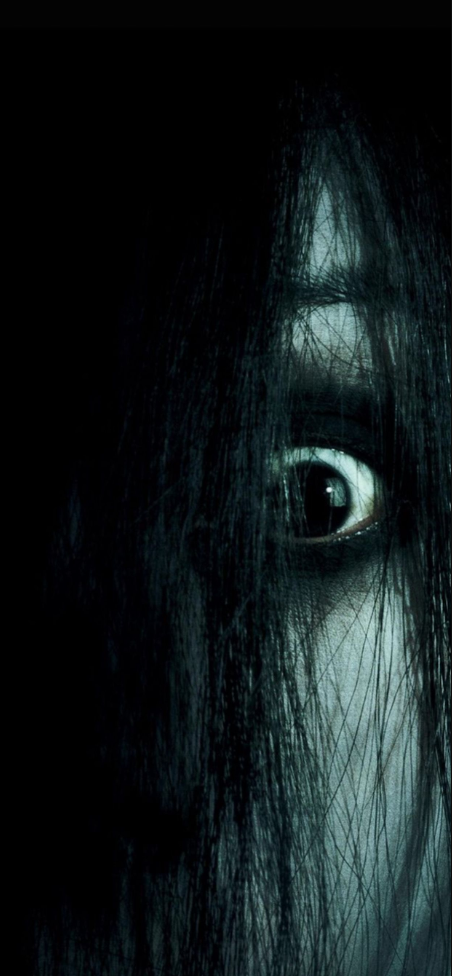
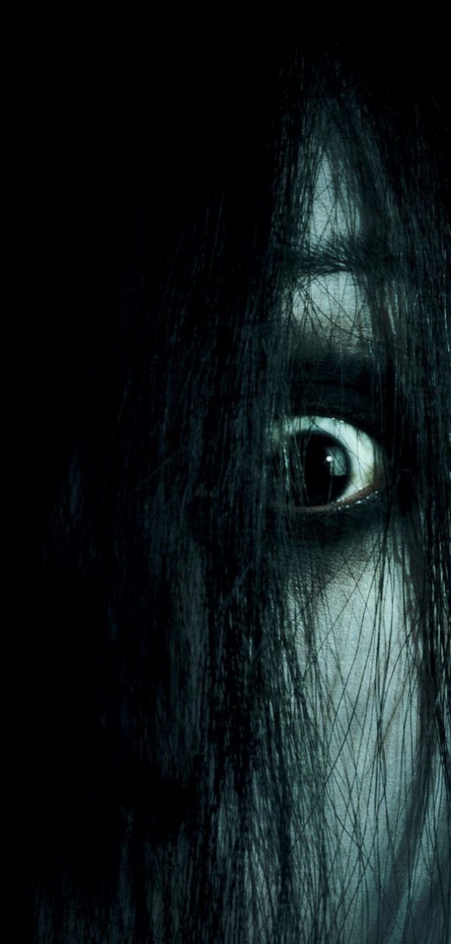
fixed image background

diff --git a/public/css/style.css b/public/css/style.css
@@ -9,8 +9,9 @@
 
 body {
     background-color: black;
-    background-attachment: fixed;
-    background-position:center;
+    background-repeat: no-repeat;
+    background-position-x: right;
+    background-position-y: bottom;
     background-image: url(../images/eyeballparallax.PNG);
 }
 
@@ -43,6 +44,7 @@ a:hover {
 .maintitle {
     color: red;
     font-size: xx-large;
+    font-family: 'Creepster', cursive;
 }
 
 .maintitle:hover {
